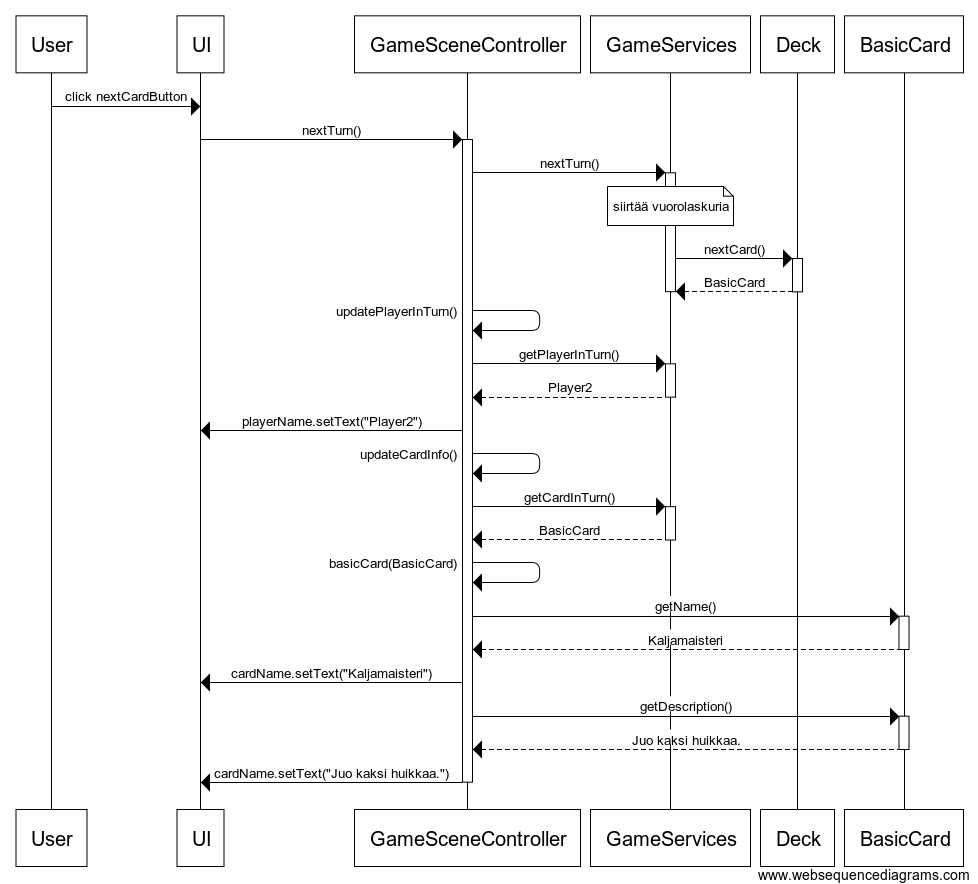
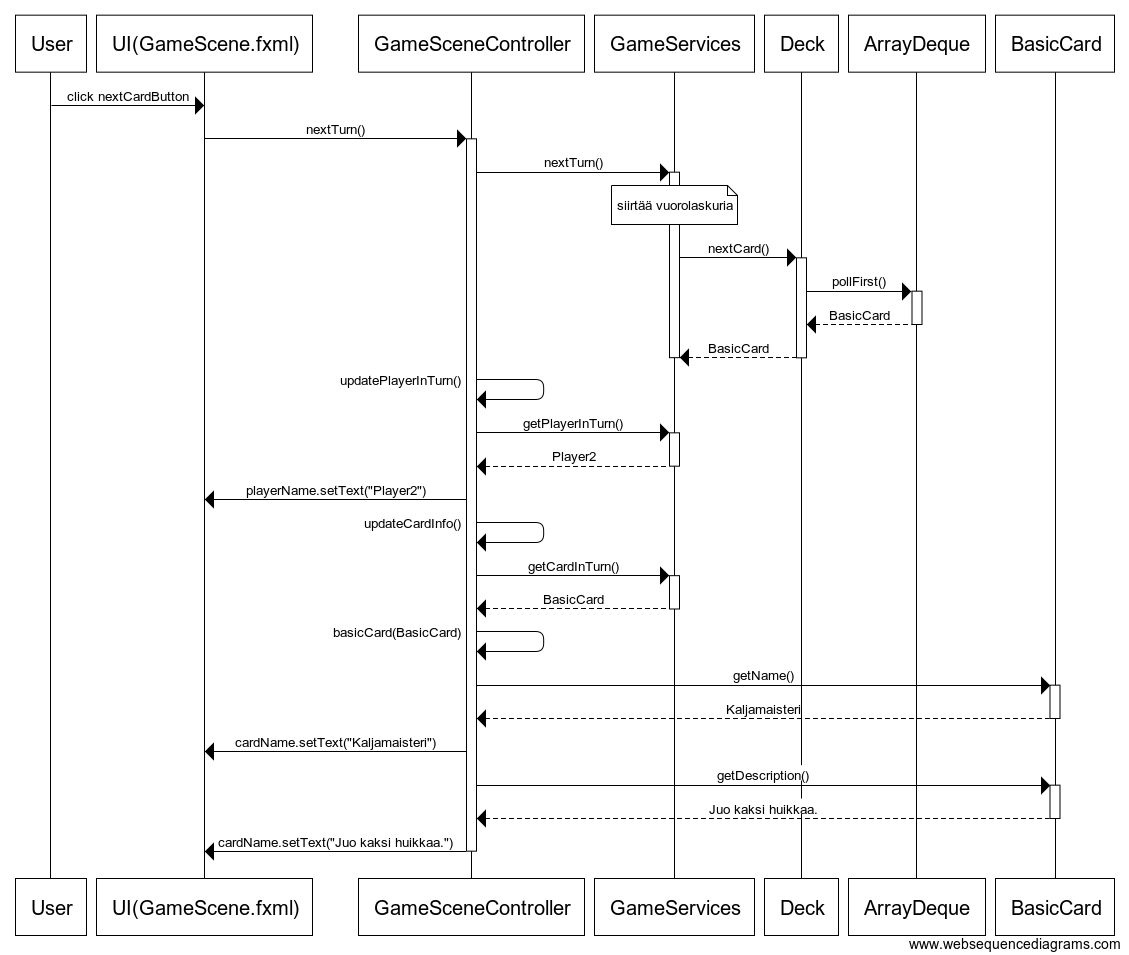
Dokumentointia

diff --git a/dokumentaatio/arkkitehtuuri.md b/dokumentaatio/arkkitehtuuri.md
@@ -1,4 +1,4 @@
-# Arkkitehtuurikuvaus
+# Arkkitehtuurikuvaus
 
 ## Rakenne
 
@@ -39,7 +39,9 @@ Sovelluksen eri osien suhteita kuvaava luokka/pakkauskaavio:
 
 ## Päätoiminnalisuudet
 
+### Uuden korttipakan generoiminen
 
+![Sekvenssikaavio](https://github.com/Jeemlei/ot-harjoitustyo/blob/master/dokumentaatio/Kuvat/Uusi_pakka_sekvenssi.png)
 
 ### Seuraavan kortin kääntäminen
 
